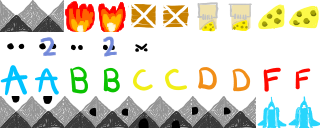
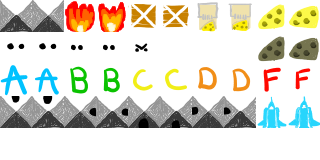
🧀 Added cheese and keeps the created level after playing in the editor.

diff --git a/src/level.js b/src/level.js
@@ -2,6 +2,8 @@ var activeLevel;
 var entities = [];
 var cat, rat;
 
+var score = 0;
+
 var fromEditor = false;
 var moveCounter = 0;
 
@@ -16,6 +18,8 @@ function clearLevel(){
 }
 
 function loadLevel(_dat = undefined){
+  score = 0;
+
   if(_dat != undefined)
     activeLevel = JSON.parse(String(_dat));
   else
@@ -43,7 +47,9 @@ function loadLevel(_dat = undefined){
         case types.HOLE_UP: t = 'HOLE_UP'; break;
         case types.HOLE_RIGHT: t = 'HOLE_RIGHT'; break;
         case types.HOLE_DOWN: t = 'HOLE_DOWN'; break;
-        case types.HOLE_LEFT: t = 'HOLE_DOWN'; break;
+        case types.HOLE_LEFT: t = 'HOLE_LEFT'; break;
+        case types.CHEESE: t = 'CHEESE'; break;
+        case types.GOAL: t = 'GOAL'; break;
         default: t = 'EMPTY'; break;
       }
       if(t != 'EMPTY'){ makeEntity(posIter[0], posIter[1], t); }
@@ -113,9 +119,28 @@ function drawLevel(){
     );
   }
 
-  if(mode == modes.LEVEL)
-    drawText(String(moveCounter), 10, 15);
+  if(mode == modes.LEVEL){
+    var _cheeseX = 0;
+    var _cheeseBop = rat.bop;
 
+    for(var _i = 0; _i < score; _i++){
+      context.globalAlpha = 0.8;
+      context.drawImage(tiles[0], 0 + ((_cheeseBop)?32:0), 128, 32, 32, _cheeseX, 0, 32, 32);
+      context.globalAlpha = 1;
+      context.drawImage(tiles[0], 256 + ((_cheeseBop)?32:0), 0, 32, 32, _cheeseX, 0, 32, 32);
+      _cheeseX += 32;
+      _cheeseBop = !_cheeseBop;
+    }
+
+    for(var _i = 0; _i < activeLevel.par - score; _i++){
+      context.globalAlpha = 0.8;
+      context.drawImage(tiles[0], 0 + ((_cheeseBop)?32:0), 128, 32, 32, _cheeseX, 0, 32, 32);
+      context.globalAlpha = 1;
+      context.drawImage(tiles[0], 256 + ((_cheeseBop)?32:0), 32, 32, 32, _cheeseX, 0, 32, 32);
+      _cheeseX += 32;
+      _cheeseBop = !_cheeseBop;
+    }
+  }
 }
 
 // Draw the level passed screen

diff --git a/src/constants.js b/src/constants.js
@@ -18,7 +18,6 @@ const modes = {
 const sprites = {
   CAT: [0, 1],
   RAT: [2, 1],
-  DEVIL: [4, 1],
   WALL: [0, 0],
   KILL: [2, 0],
   PUSH: [4, 0],
@@ -46,7 +45,6 @@ const pictures = {
 const type_list = [
     "CAT",
     "RAT",
-    "DEVIL",
     "WALL",
     "KILL",
     "PUSH",
@@ -63,20 +61,19 @@ const types = {
   EMPTY: 0,
   CAT: 1,
   RAT: 2,
-  DEVIL: 3,
-  WALL: 4,
-  PUSH: 5,
-  KILL: 6,
-  TRAP: 7,
-  HOLE_UP: 8,
-  HOLE_RIGHT: 9,
-  HOLE_DOWN: 10,
-  HOLE_LEFT: 11,
-  GOAL: 12,
-  CHEESE: 13
+  WALL: 3,
+  PUSH: 4,
+  KILL: 5,
+  TRAP: 6,
+  HOLE_UP: 7,
+  HOLE_RIGHT: 8,
+  HOLE_DOWN: 9,
+  HOLE_LEFT: 10,
+  GOAL: 11,
+  CHEESE: 12
 }
 
-const tmp_level = '{"title":"","par":4,"data":[4,4,4,4,4,4,4,4,4,4,4,4,4,4,4,4,4,4,4,4,4,4,4,4,4,4,4,4,4,4,4,4,4,4,4,4,4,4,4,4,4,4,4,4,4,4,4,4,4,4,4,4,4,4,4,4,4,14,4,4,4,4,4,4,4,4,4,4,4,4,4,4,4,4,4,4,4,4,4,4,4,4,1,4,4,4,4,9,4,4,4,11,4,4,2,4,4,4,4,4,4,4,4,4,4,4,4,4,4,4,4,4,4,4,4,4,4,4,4,4,4,8,4,4,4,4,4,4,4,4,4,4,4,4,4,4,4,4,4,4,4,4,4,4,4,4,4,4,4,4,4,4,4,4,4,4,4,4,4,4,4,4,4,4,4,4,4,4,4,4,4,4,4,4,4,4,4,4,4,4,4,4,4,4,4,4,4,4,4,4,4,4]}';
+const tmp_level = '{"title":"","par":3,"data":[0,0,0,0,0,0,0,0,0,0,0,0,0,0,0,0,0,0,0,0,0,0,0,0,0,0,0,0,0,0,0,0,0,0,0,0,0,0,0,0,0,0,0,0,0,0,0,0,0,0,0,0,0,0,0,0,0,10,0,0,0,0,0,0,0,0,0,0,0,0,0,0,0,0,0,0,0,0,0,0,0,0,1,0,0,0,0,9,0,0,0,11,0,0,2,0,0,0,0,0,0,0,0,0,0,0,0,0,0,0,0,0,0,0,0,0,0,0,0,0,0,8,0,0,0,0,0,0,0,0,0,0,0,0,0,0,0,0,0,0,0,0,0,0,0,0,0,0,0,0,0,0,0,0,0,0,0,0,0,0,0,0,0,0,0,0,0,0,0,0,0,0,0,0,0,0,0,0,0,0,0,0,0,0,0,0,0,0,0,0,0,0]}';
 
 const levels = [
 

diff --git a/src/editor.js b/src/editor.js
@@ -34,7 +34,7 @@ function editorHandleClick(left = true){
   if(mode != modes.EDITOR || mousePos == undefined)
     return;
 
-  var e = { x: mousePos.x - (TILE_SIZE/2), y: mousePos.y - (TILE_SIZE/2) };
+  var e = { x: mousePos.x, y: mousePos.y };
   e.x = Math.floor(e.x / TILE_SIZE);
   e.y = Math.floor(e.y / TILE_SIZE);
 
@@ -69,7 +69,7 @@ function drawEditor(){
     return;
 
   var sprite = eval("sprites." + type_list[cursor]);
-  var e = { x: mousePos.x - (TILE_SIZE/2), y: mousePos.y - (TILE_SIZE/2) };
+  var e = { x: mousePos.x, y: mousePos.y };
 
   e.x = Math.floor(e.x / TILE_SIZE);
   e.y = Math.floor(e.y / TILE_SIZE);

diff --git a/src/player.js b/src/player.js
@@ -109,6 +109,12 @@ function moveCatNRat(_dir){
         if(e.x == tRat.x && e.y == tRat.y){ kill[1] = true; }
         if(e.x == tCat.x && e.y == tCat.y){ entities.splice(_i, 1); }
         break;
+      case types.CHEESE:
+        if(e.x == tRat.x && e.y == tRat.y){
+          score++;
+          entities.splice(_i, 1);
+        }
+        break;
       case types.GOAL:
         if(e.x == tRat.x && e.y == tRat.y)
           goal = true;

diff --git a/src/input.js b/src/input.js
@@ -73,7 +73,7 @@ $(document).on("keypress", function(e){
       }
       if(e.which == 112){ // P
         fromEditor = true;
-        levelData = levelWriteOut();
+        activeLevel.data = levelWriteOut();
         mode = modes.LEVEL;
       }
       if(e.which == 111){ // O

diff --git a/README.md b/README.md
@@ -2,7 +2,7 @@
   <img src="https://github.com/ZaidMade/CatRat/raw/master/logo.gif" alt="CatRat" title="CatRat">
 </div>
 
-*A turn and grid based maze game where you play as Captain Squeakers, a rodent space pirate traveling the galaxy to steal as much cheese as they can. The grid is 16x12 cells large. You move the rat using WASD controls in rogue-like turn based movement and the cat moves in the opposite direction of the rat. If the rat and cat are in the same cell, the cat will eat the rat. If Lieutenant Squeakers dies, the level will be failed.*
+*A turn and grid based maze game where you play as Captain Squeakers, a rodent space pirate traveling the galaxy to steal as much cheese as they can. The grid is 16x12 cells large. You move the rat using WASD controls in rogue-like turn based movement and the cat moves in the opposite direction of the rat. If the rat and cat are in the same cell, the cat will eat the rat. If Captain Squeakers dies, the level will be failed.*
 
 ### Mechanics
 * [X] __WALL__: Stops the cat and the rat from moving into the same cell as it.
@@ -11,7 +11,7 @@
 * [ ] __GATE&KEY__: A wall cell that is deleted when a linked key entity is brought to it.
 * [ ] __MOUSEHOLE__: A wall block with a small hole in it the rat can pass through but the cat cannot.
 * [X] __RATTRAP__: A trap which only kills the rat, not the cat. Can be set off by the cat to destroy it.
-* [ ] __CHEESE__: Actual cheese blocks to collect.
+* [X] __CHEESE__: Actual cheese blocks to collect.
 * [X] __SHIP__: The goal that Captain Squeakers will return to after stealing cheese.
 
 ### Screens
